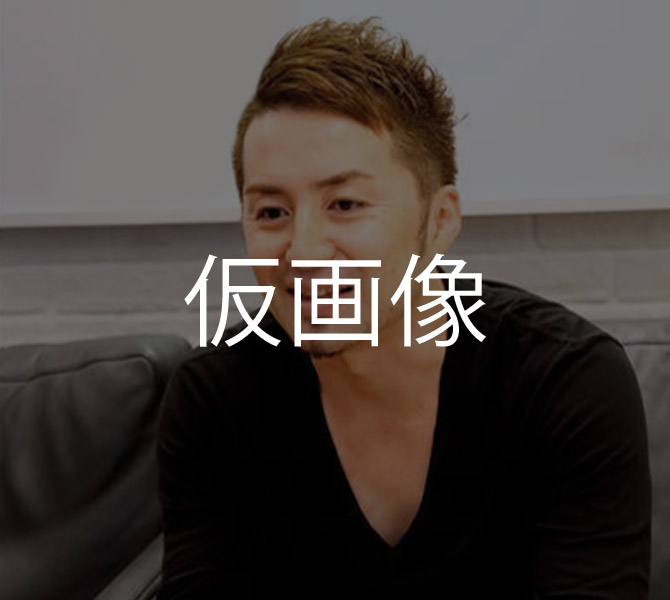
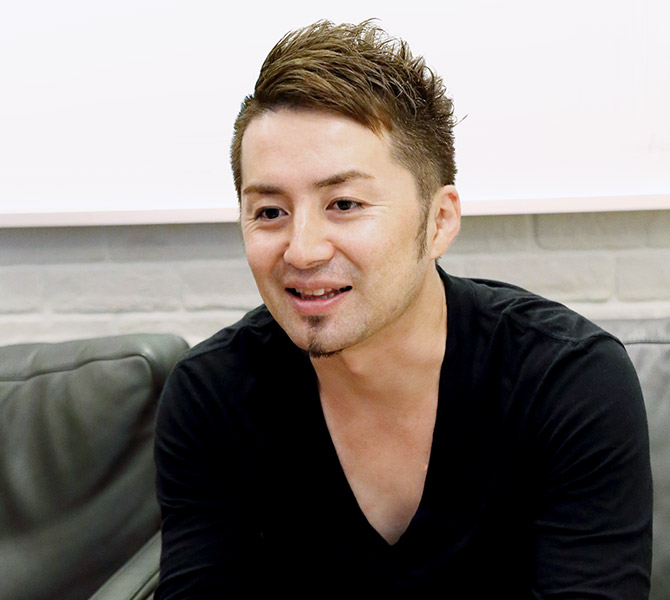
テキスト反映

diff --git a/src/css/company.css b/src/css/company.css
@@ -21,174 +21,198 @@
                 padding: 8rem 23rem 10rem;
                 position: relative;
             }
+            @media (--tb-h) {
+                padding-left: 12rem;
+                padding-right: 12rem;
+            }
+            @media (--tb) {
+                padding-left: 8rem;
+                padding-right: 8rem;
+            }
             @media (--sp) {
                 padding-left: 5.3vw;
-                padding-right: 5.3vw;
+                padding-rigtht: 5.3vw;
             }
         }
         img {
             max-width: 100%;
         }
     }
-}
 
-.company {
-    > .layout {
-        @media (--sp) {
-            padding-top: 4rem;
-        }
-    }
-    .company__info {
-        margin-top: 2.4rem;
-        background-color: #fff;
-        box-shadow: 0 0 30px 20px rgba(0 0 0 / 5%);
-        border-radius: 20px;
-        padding: 6.4rem 5.6rem;
-        @media (--sp) {
-            padding: 2.4rem 3.2rem;
-        }
-        dl {
-            @media (--not-sp) {
-                display: flex;
-                align-items: flex-start;
-            }
-            dt,
-            dd {
-                font-size: 1.6rem;
-                line-height: 1.6;
-                letter-spacing: 0.05em;
-            }
-            dt {
-                font-weight: bold;
-                @media (--not-sp) {
-                    width: 10rem;
-                    text-align: right;
-                }
-            }
-            dd {
-                @media (--not-sp) {
-                    flex: 1;
-                    padding-left: 2.4rem;
-                }
-            }
-            &:not(:first-of-type) {
-                margin-top: 2.4rem;
-            }
-        }
-    }
-}
 
-.message {
-    @media (--sp) {
-        margin-top: 7.2rem;
-    }
-    > .layout {
-        padding-bottom: 2.4rem;
-    }
-    .message__content {
-        background-color: #fff;
+    .company {
         > .layout {
-            padding-top: 6rem;
-            padding-bottom: 2rem;
             @media (--sp) {
                 padding-top: 4rem;
             }
         }
-        .message__card {
-            background-color: #e74c3c;
-            .message-head {
-                border-bottom: 1px solid #fff;
+        .company__info {
+            margin-top: 2.4rem;
+            background-color: #fff;
+            box-shadow: 0 0 30px 20px rgba(0 0 0 / 5%);
+            border-radius: 20px;
+            padding: 6.4rem 5.6rem;
+            @media (--sp) {
+                padding: 2.4rem 3.2rem;
+            }
+            dl {
                 @media (--not-sp) {
                     display: flex;
-                    flex-direction: row-reverse;
+                    align-items: flex-start;
                 }
-                .messag-head__image {
+                dt,
+                dd {
+                    font-size: 1.6rem;
+                    line-height: 1.6;
+                    letter-spacing: 0.05em;
+                }
+                dt {
+                    font-weight: bold;
                     @media (--not-sp) {
-                        width: calc(260 / 900 * 100%);
+                        width: 10rem;
+                        text-align: right;
                     }
                 }
-                .messag-head__text {
-                    color: #fff;
-                    font-size: 1.6rem;
-                    line-height: 2;
-                    padding: 4rem 8rem;
-                    position: relative;
+                dd {
                     @media (--not-sp) {
                         flex: 1;
+                        padding-left: 2.4rem;
                     }
-                    @media (--sp) {
-                        padding: 4rem 3rem;
-                    }
-                    &::before,
-                    &::after {
-                        content: "";
-                        background-image: url('/work/common/image/voice_figure.png');
-                        background-repeat: no-repeat;
-                        background-size: 32px auto;
-                        width: 32px;
-                        height: 29px;
-                        position: absolute;
-                        @media (--sp) {
-                            width: 22px;
-                            height: 19px;
-                            background-size: 22px auto;
-                        }
-                    }
-                    &::before {
-                        top: 3rem;
-                        left: 3rem;
-                        @media (--sp) {
-                            top: 2rem;
-                            left: 1.5rem;
-                        }
-                    }
-                    &::after {
-                        bottom: 3rem;
-                        right: 3rem;
-                        transform: scale(-1, -1);
-                        @media (--sp) {
-                            bottom: 2rem;
-                            right: 1.5rem;
-                        }
-                    }
-            
+                }
+                &:not(:first-of-type) {
+                    margin-top: 2.4rem;
                 }
             }
-            .message-profile {
-                padding: 2.4rem 8rem 4rem;
+        }
+    }
+    
+    .message {
+        @media (--sp) {
+            margin-top: 7.2rem;
+        }
+        > .layout {
+            padding-bottom: 2.4rem;
+            padding-top: 0;
+        }
+        .message__content {
+            background-color: #fff;
+            > .layout {
+                padding-top: 6rem;
+                padding-bottom: 2rem;
                 @media (--sp) {
-                    padding: 3.2rem 3rem;
+                    padding-top: 4rem;
                 }
-                .message-profile__name {
-                    display: flex;
-                    align-items: center;
-                    color: #fff;
-                    font-size: 1.4rem;
-                    line-height: 2;
-                    letter-spacing: 0.06em;
-                    img {
-                        width: 117px;
-                        margin-left: 2rem;
-                        @media (--sp) {
-                            width: 82px;
+            }
+            .message__card {
+                background-color: #e74c3c;
+                .message-head {
+                    border-bottom: 1px solid #fff;
+                    @media (--not-sp) {
+                        display: flex;
+                        flex-direction: row-reverse;
+                    }
+                    .messag-head__image {
+                        @media (--not-sp) {
+                            width: calc(260 / 900 * 100%);
                         }
                     }
+                    .messag-head__text {
+                        color: #fff;
+                        padding: 4rem 8rem;
+                        position: relative;
+                        h3 {
+                            font-size: 2.4rem;
+                            line-height: 1.6;
+                            @media (--sp) {
+                                font-size: 1.8rem;
+                            }
+                        }
+                        p {
+                            font-size: 1.6rem;
+                            line-height: 2;
+                            margin-top: 1.8rem;
+                            @media (--sp) {
+                                font-size: 1.3rem;
+                            }
+                        }
+                        @media (--not-sp) {
+                            flex: 1;
+                        }
+                        @media (--sp) {
+                            padding: 4rem 3rem;
+                        }
+                        &::before,
+                        &::after {
+                            content: "";
+                            background-image: url('/work/common/image/voice_figure.png');
+                            background-repeat: no-repeat;
+                            background-size: 32px auto;
+                            width: 32px;
+                            height: 29px;
+                            position: absolute;
+                            @media (--sp) {
+                                width: 22px;
+                                height: 19px;
+                                background-size: 22px auto;
+                            }
+                        }
+                        &::before {
+                            top: 3rem;
+                            left: 3rem;
+                            @media (--sp) {
+                                top: 2rem;
+                                left: 1.5rem;
+                            }
+                        }
+                        &::after {
+                            bottom: 3rem;
+                            right: 3rem;
+                            transform: scale(-1, -1);
+                            @media (--sp) {
+                                bottom: 2rem;
+                                right: 1.5rem;
+                            }
+                        }
+                
+                    }
                 }
-                .message-profile__text {
-                    color: #fff;
-                    font-size: 1.4rem;
-                    line-height: 2;
-                    letter-spacing: 0.06em;
-                    margin-top: 2.4rem;
+                .message-profile {
+                    padding: 2.4rem 8rem 4rem;
                     @media (--sp) {
-                        margin-top: 1.6rem;
+                        padding: 3.2rem 3rem;
+                    }
+                    .message-profile__name {
+                        display: flex;
+                        align-items: center;
+                        color: #fff;
+                        font-size: 1.4rem;
+                        line-height: 2;
+                        letter-spacing: 0.06em;
+                        img {
+                            width: 117px;
+                            margin-left: 2rem;
+                            @media (--sp) {
+                                width: 82px;
+                            }
+                        }
+                    }
+                    .message-profile__text {
+                        color: #fff;
+                        font-size: 1.4rem;
+                        line-height: 2;
+                        letter-spacing: 0.06em;
+                        margin-top: 2.4rem;
+                        @media (--sp) {
+                            margin-top: 1.6rem;
+                            font-size: 1.2rem;
+                        }
                     }
                 }
             }
         }
     }
+    
 }
-
 .pagetop {
     background: none;
 }

diff --git a/src/components/header/header.css b/src/components/header/header.css
@@ -20,7 +20,7 @@
         }
     }
     .layout {
-        padding: 0 10rem;
+        padding: 0 6rem;
         border-left: 1px solid #e5e5e5;
         border-right: 1px solid #e5e5e5;
         height: 100%;
@@ -29,8 +29,8 @@
             padding-right: 4rem;
         }
         @media (--tb) {
-            padding-left: 4rem;
-            padding-right: 4rem;
+            padding-left: 1.2rem;
+            padding-right: 1.2rem;
         }
         @media (max-width: 767px) {
             padding: 1.9rem 5.3vw;

diff --git a/src/components/company/adviser/adviser.css b/src/components/company/adviser/adviser.css
@@ -1,4 +1,4 @@
-.adviser {
+.main .adviser {
     @media (--sp) {
         padding-bottom: 5.6rem;
     }
@@ -26,6 +26,9 @@
                 align-items: flex-start;
             }
             .adviser-card__image {
+                img {
+                    width: 100%;
+                }
                 @media (--not-sp) {
                     width: calc(230 / 900 * 100%);
                 }
